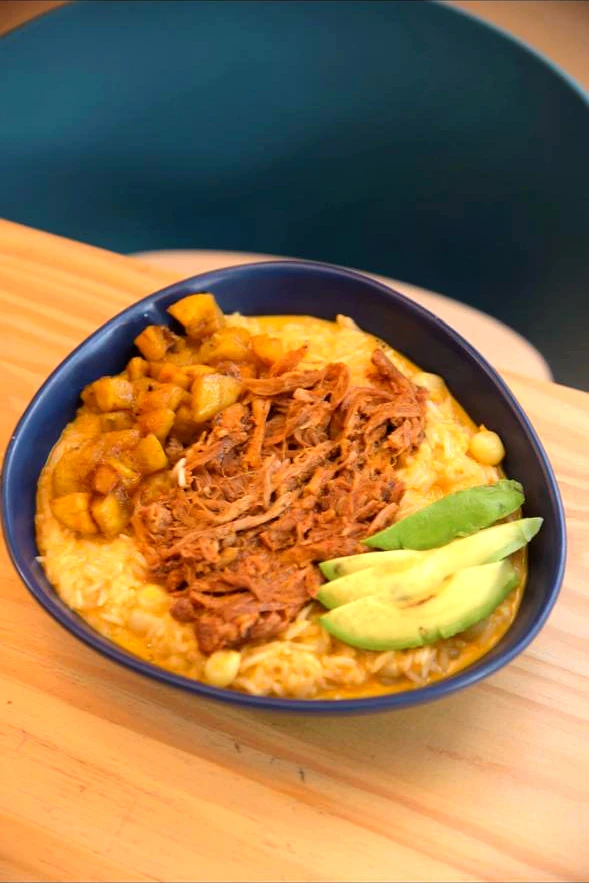
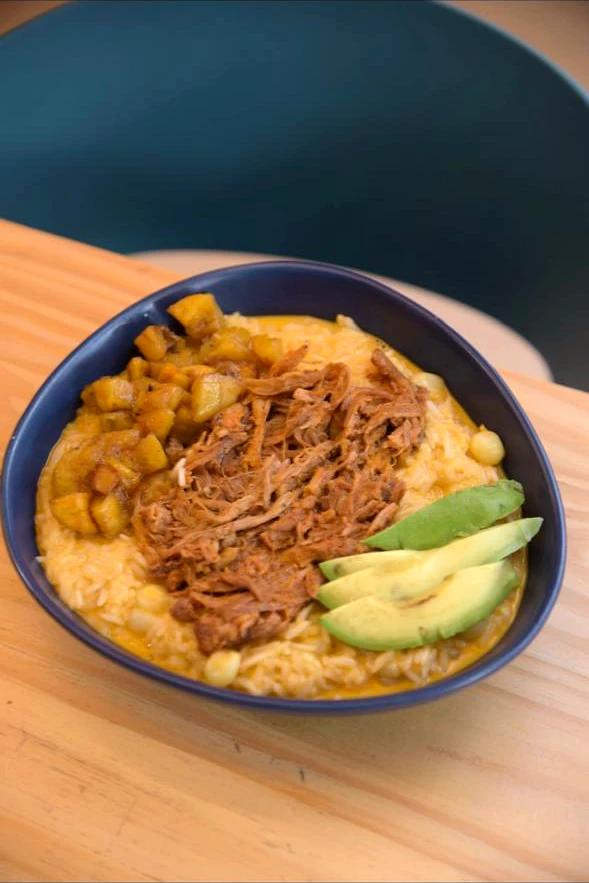
Corregir tarjeta del Moroclo: cuadro deformado y color muy cálido
La foto del Moroclo es la única en formato retrato (vertical); al
combinarse con aspect-ratio + height:100% en el contenedor, algunos
navegadores calculaban el alto según el ratio de la imagen en vez del
cuadrado declarado, estirando solo esa tarjeta. Se corrige posicionando
la imagen en absolute inset-0 dentro del contenedor, técnica robusta
para cover + aspect-ratio sin depender de que el porcentaje de alto
resuelva bien.

También se suaviza el viraje cálido aplicado a la foto (menos
saturación y menos corrimiento a rojo/amarillo) para que combine mejor
con el tono de las otras tres.

Claude-Session: https://claude.ai/code/session_01CDXf6TTweygDTVExXaeB8w

diff --git a/src/components/CandidateCard.tsx b/src/components/CandidateCard.tsx
@@ -32,12 +32,12 @@ export default function CandidateCard({
         </span>
       )}
 
-      <div className="w-full aspect-square bg-ilustre-blueLight/20">
+      <div className="relative w-full aspect-square bg-ilustre-blueLight/20">
         <img
           src={candidate.image}
           alt={candidate.name}
           loading="lazy"
-          className="w-full h-full object-cover"
+          className="absolute inset-0 w-full h-full object-cover"
         />
       </div>
 
